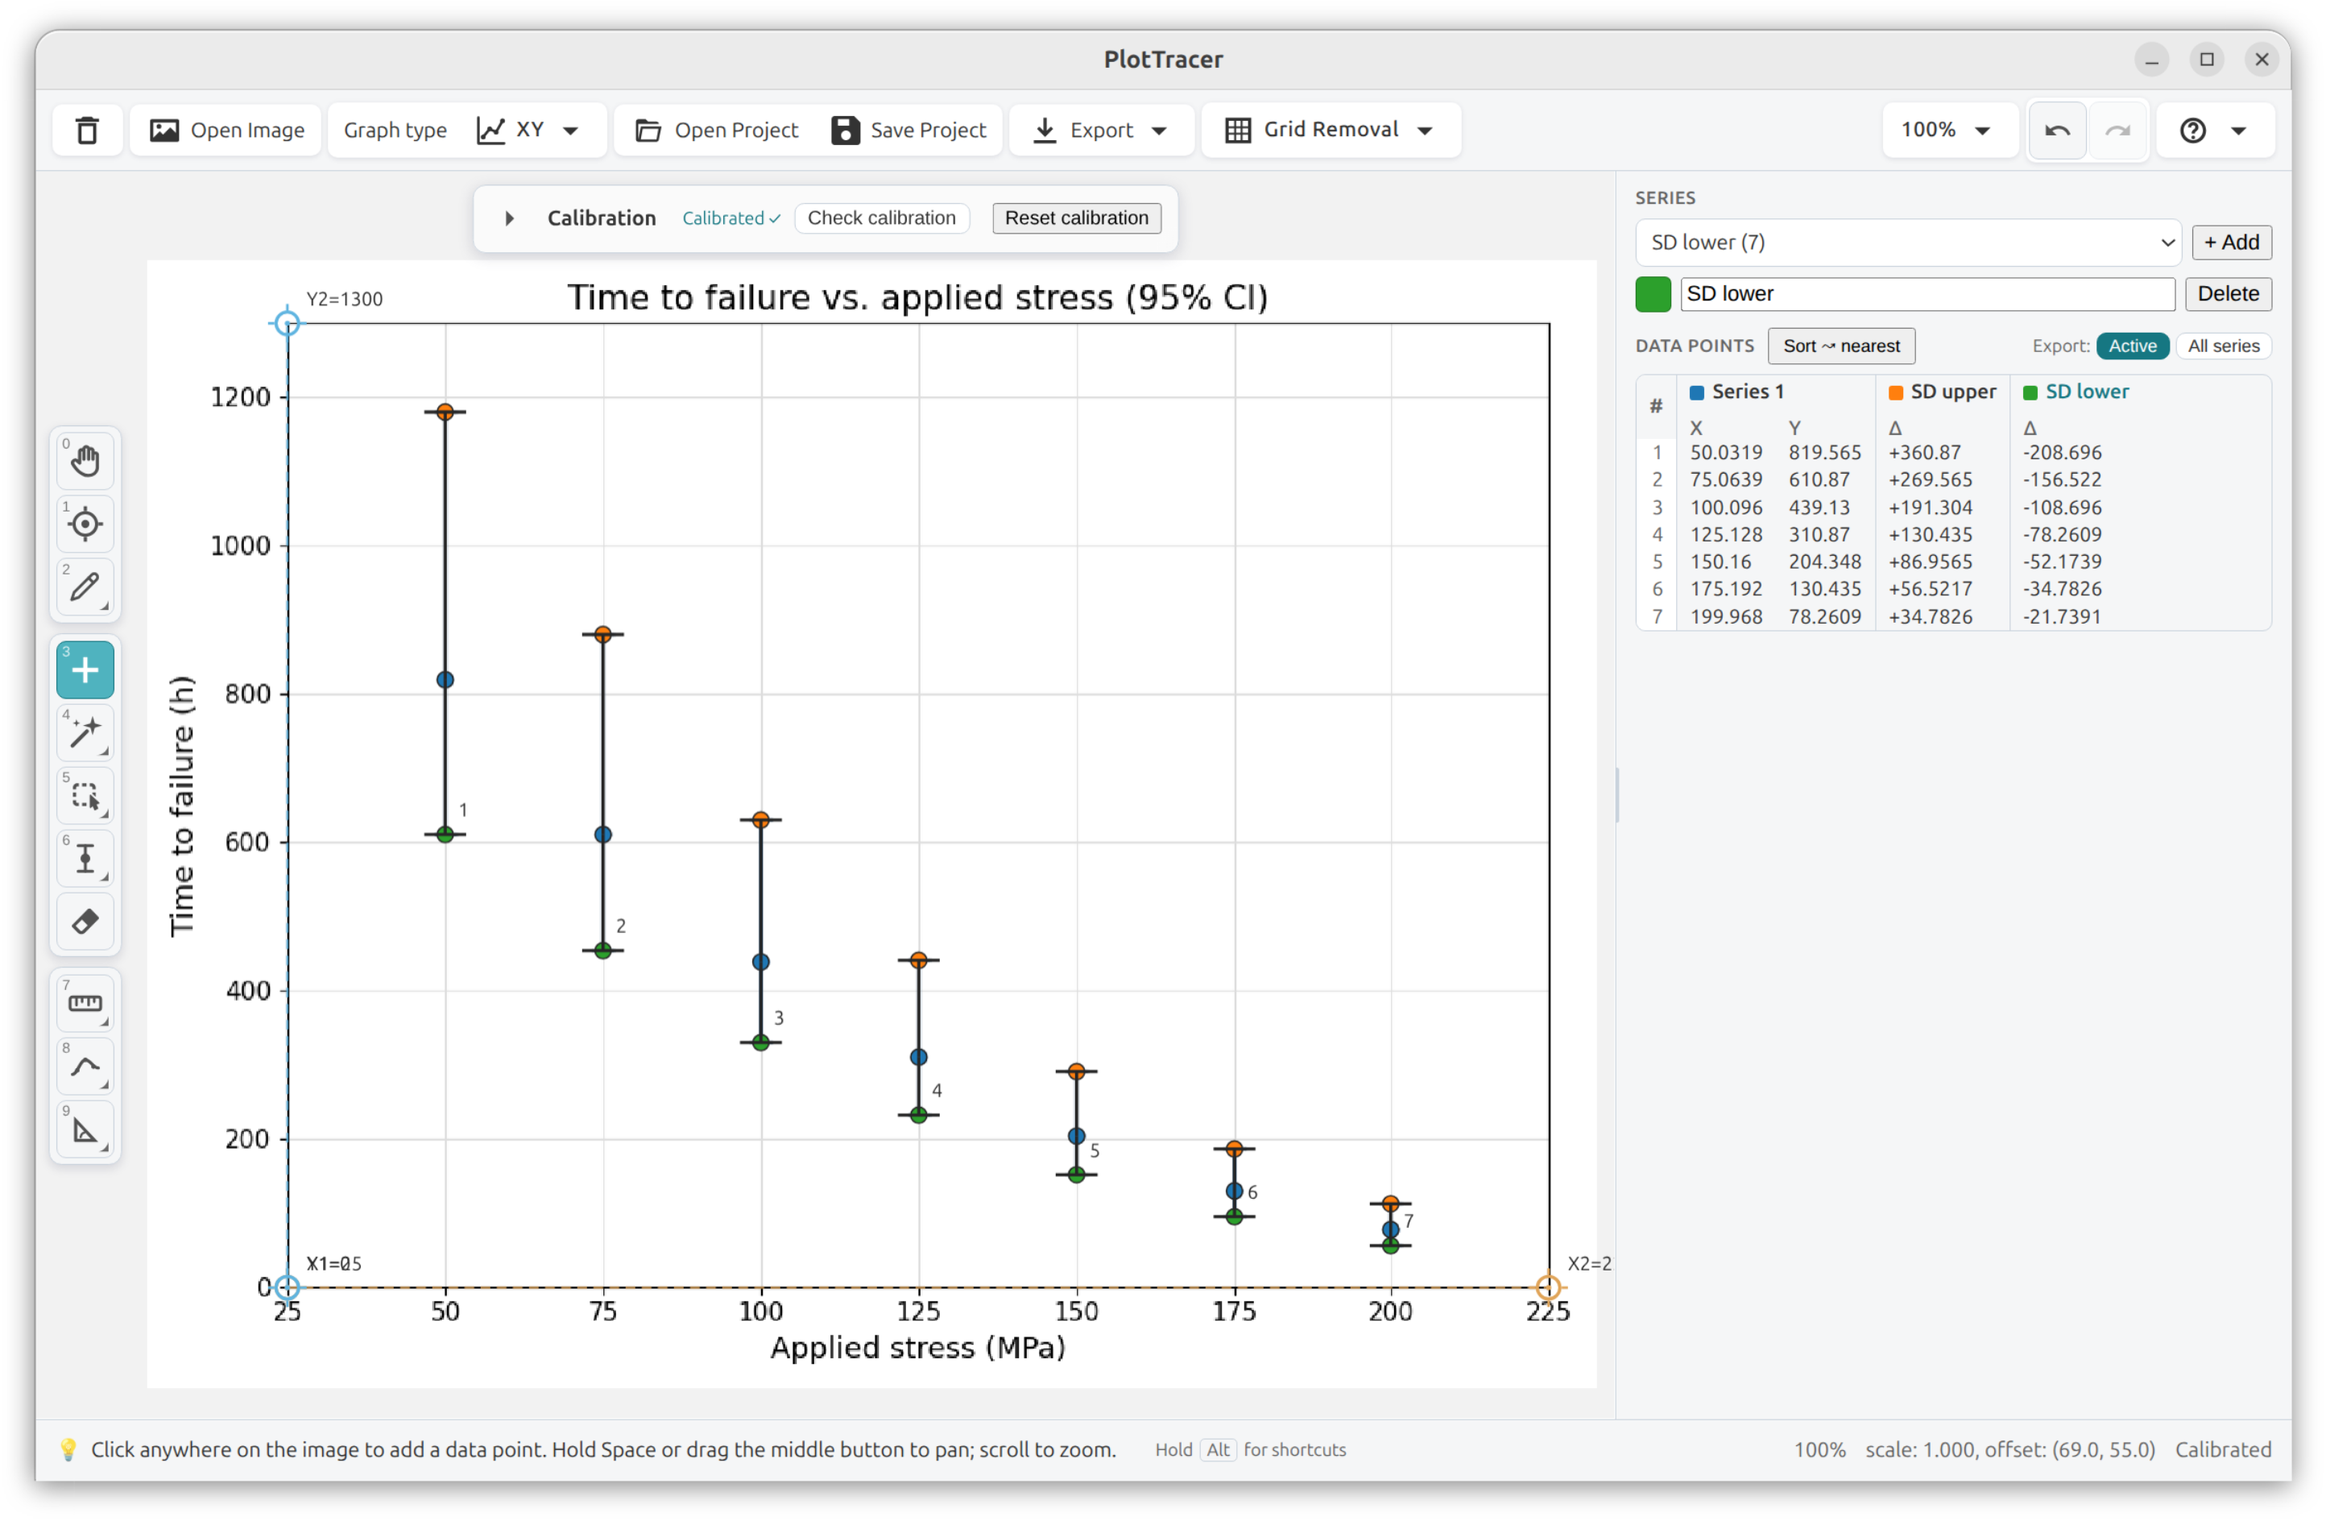
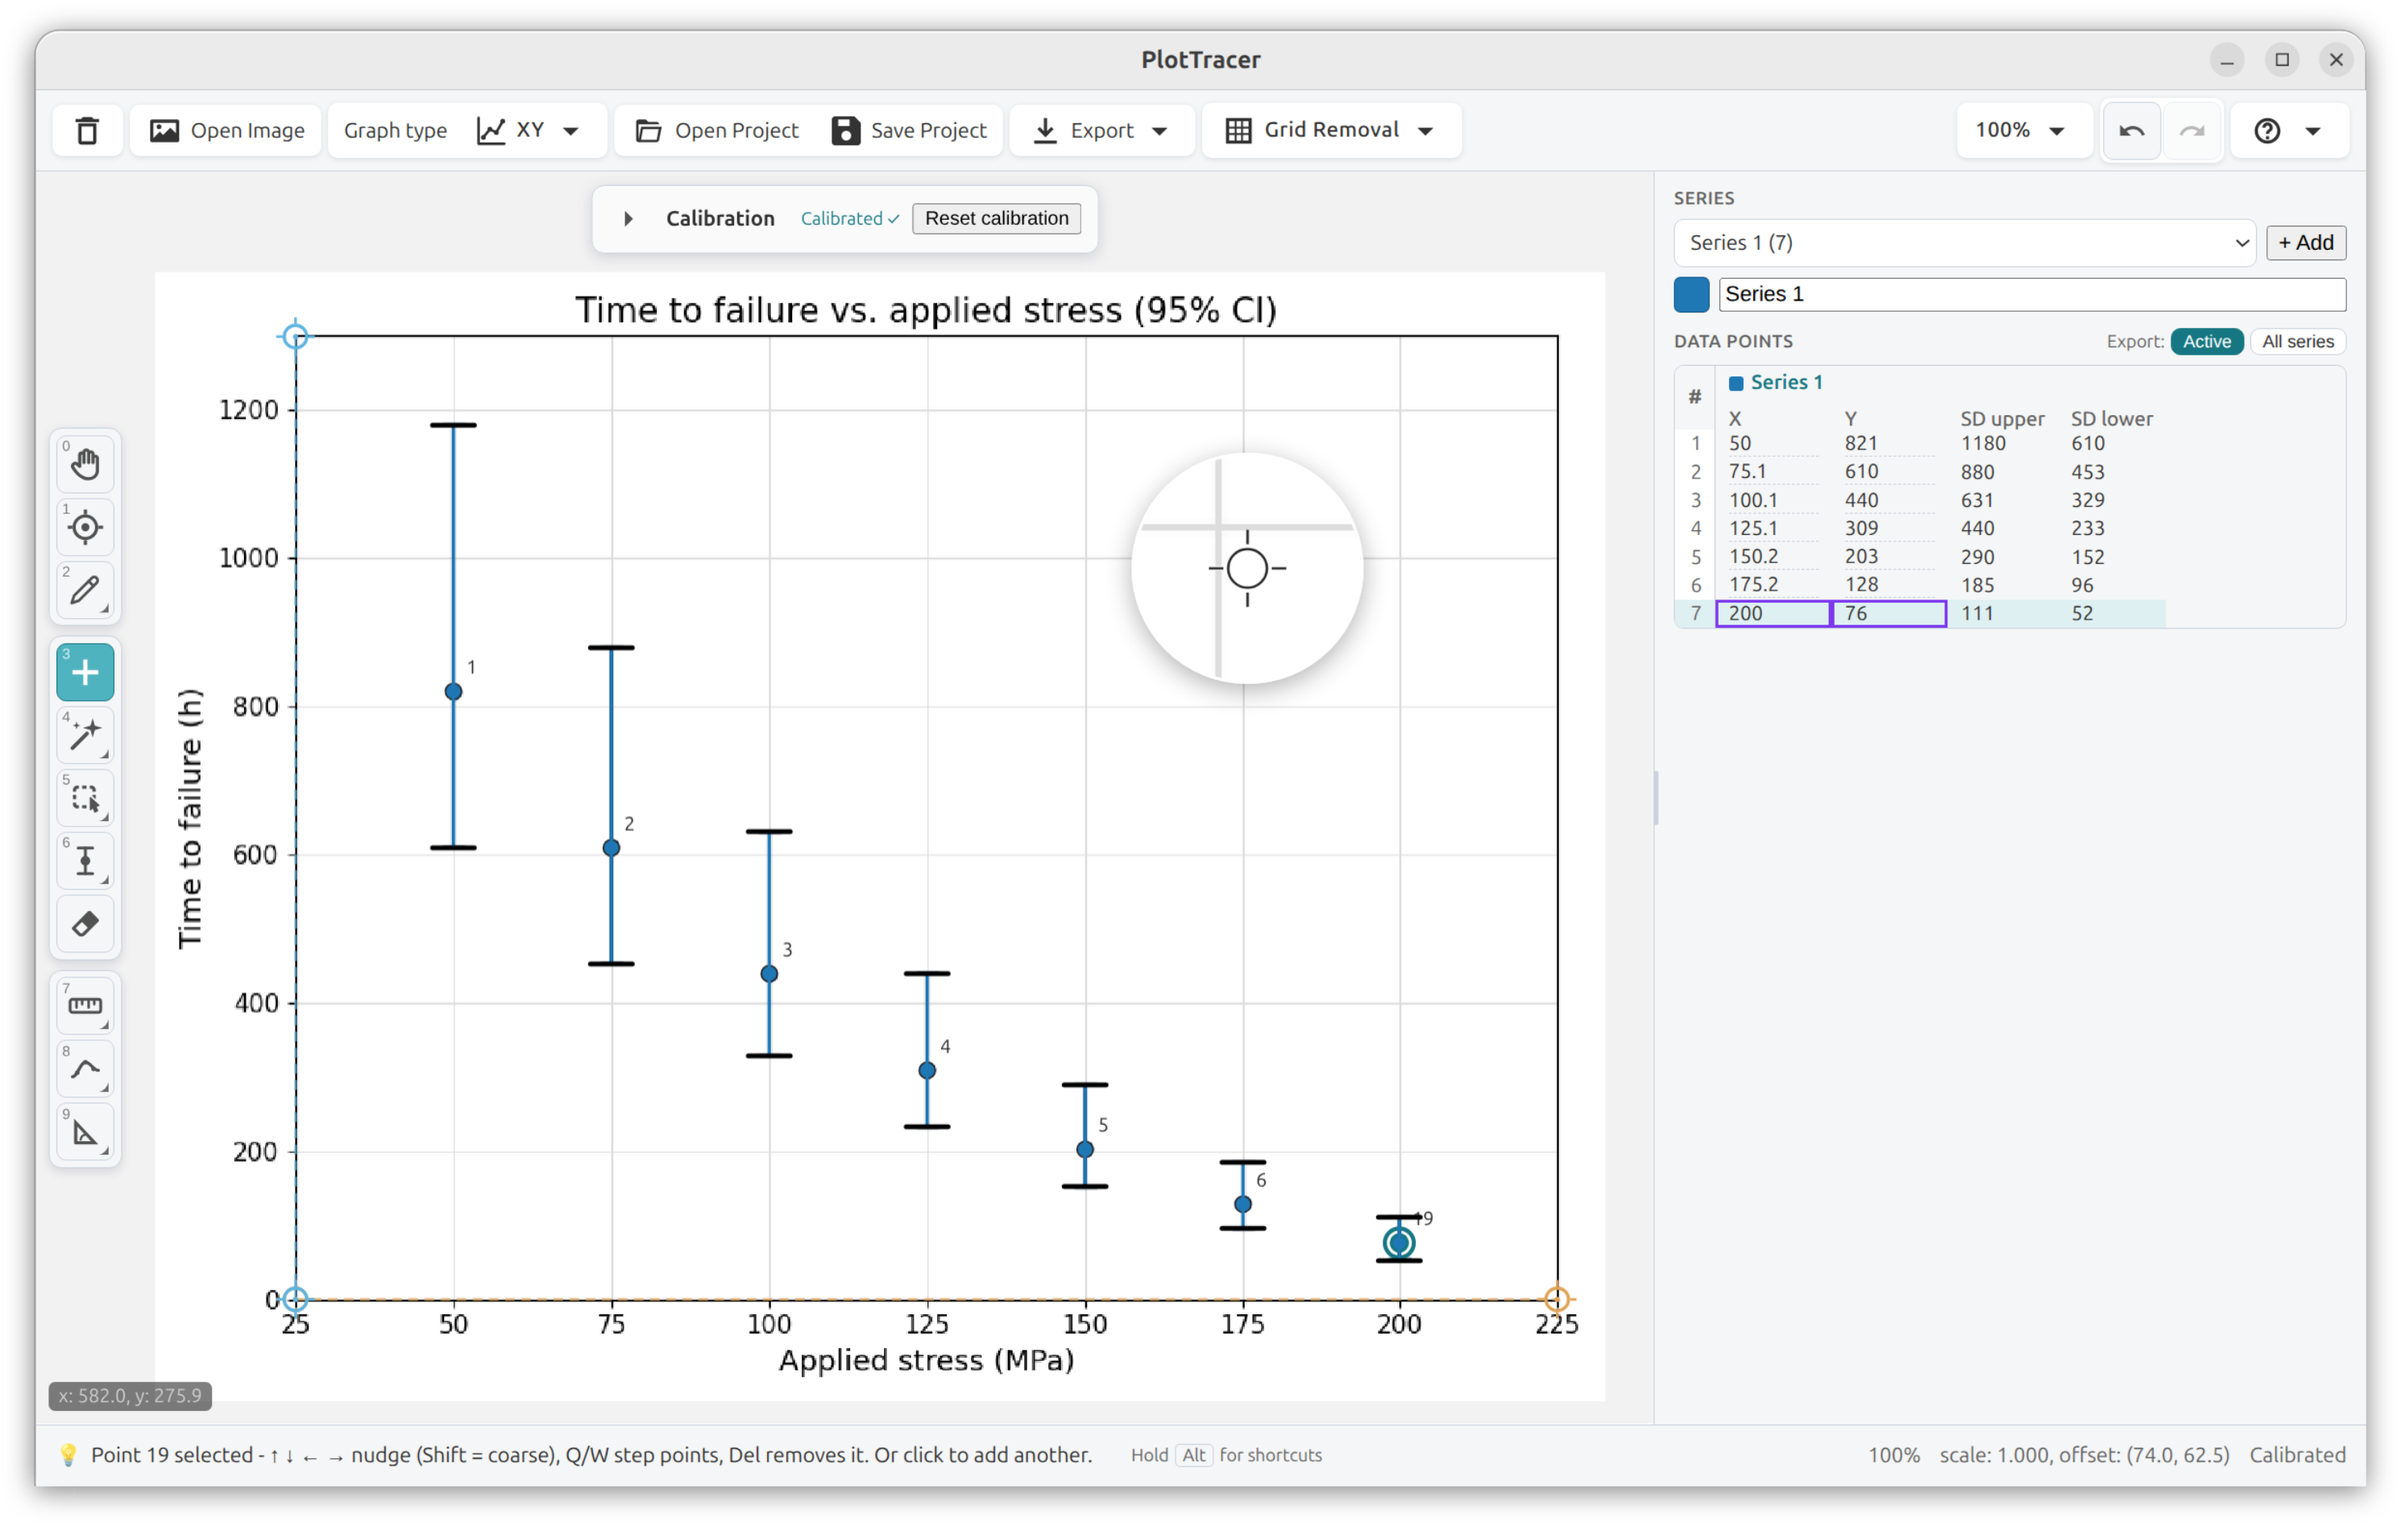
The error-bar card shows 2.3.0, and its caption quotes what the panel prints
Re-shot against errorbar-failure-time-asymmetric. All seven rows check out
against the truth file, worst error 4 units on the smallest bar's lower cap, and
every upper cap now sits above its own point.

The caption was stale twice over. It quoted +360.87 and -208.70, which the
current capture does not produce, and it described the panel as listing two
deltas when SD upper and SD lower are absolute positions. It now says what is on
screen: 1180 above a point at 821 and 610 below it.

diff --git a/docs/index.html b/docs/index.html
@@ -501,9 +501,9 @@
         <figcaption><b>Floating bars, measured end to end.</b> Both corners are recorded, so a bar reports its own span rather than a single baseline-relative number - and a range that crosses zero stays one bar instead of being split at the axis.</figcaption>
       </figure>
       <figure class="shot-card">
-        <img class="shot" src="assets/shot-errorbars.png" width="2888" height="1888"
-          alt="A plot in PlotTracer - time to failure against applied stress with 95% confidence intervals - where each point's upper and lower caps are captured separately, and the data panel lists the two deltas side by side: +360.87 above and −208.70 below on the first point, unequal all the way down.">
-        <figcaption><b>Error &amp; uncertainty.</b> Place each cap where the figure actually draws it - asymmetric and all. Here a 95% CI runs +360.87 above the point and −208.70 below it, and both are recorded as measured rather than one being assumed from the other. The tool says up front that the second cap starts as a mirror rather than a measurement, and the cap is draggable where it stands.</figcaption>
+        <img class="shot" src="assets/shot-errorbars.png" width="2980" height="1894"
+          alt="A plot in PlotTracer - time to failure against applied stress with 95% confidence intervals - where each point's upper and lower caps are captured separately, and the data panel lists each cap's own position: 1180 above and 610 below a point at 821, unequal all the way down.">
+        <figcaption><b>Error &amp; uncertainty.</b> Place each cap where the figure actually draws it - asymmetric and all. Here a 95% CI reaches 1180 above a point at 821 and 610 below it, and both are recorded as measured rather than one being assumed from the other. The tool says up front that the second cap starts as a mirror rather than a measurement, and the cap is draggable where it stands.</figcaption>
       </figure>
       <figure class="shot-card">
         <img class="shot" src="assets/shot-histogram.png" width="2888" height="1888"
